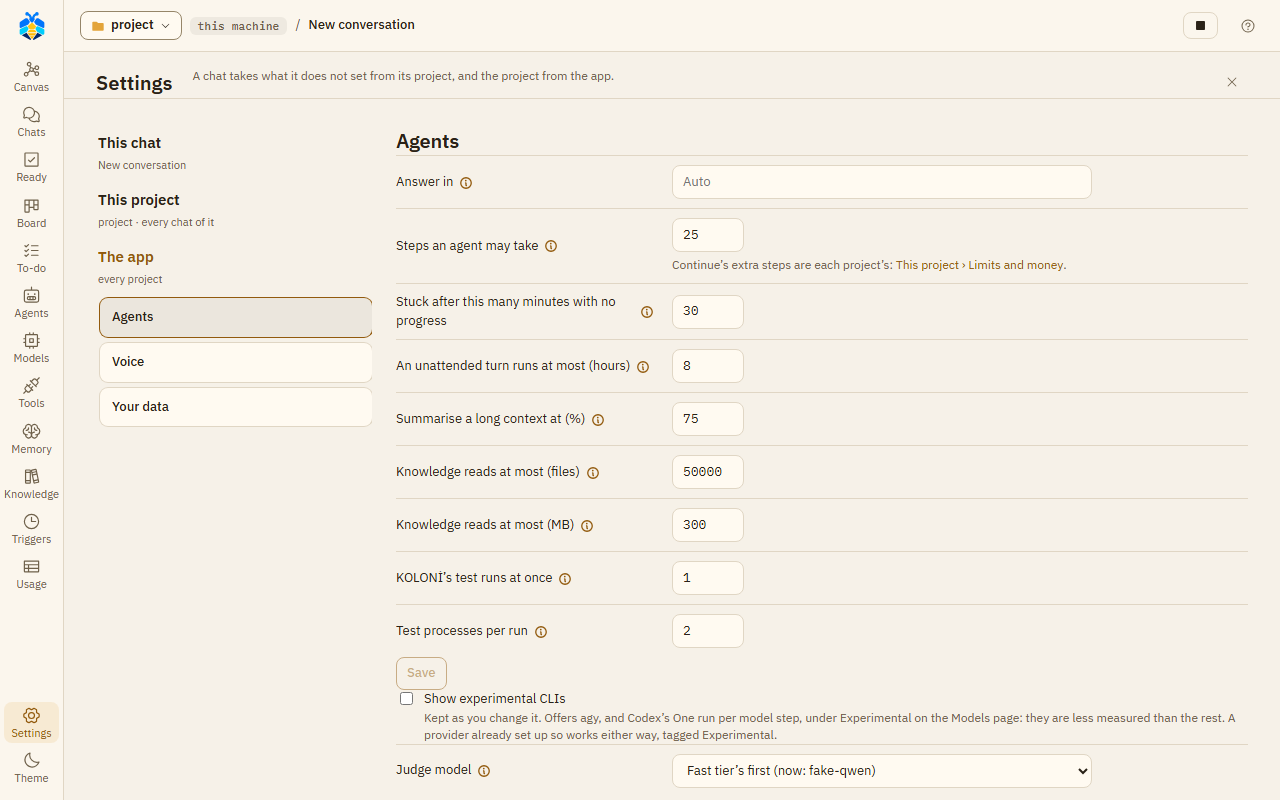
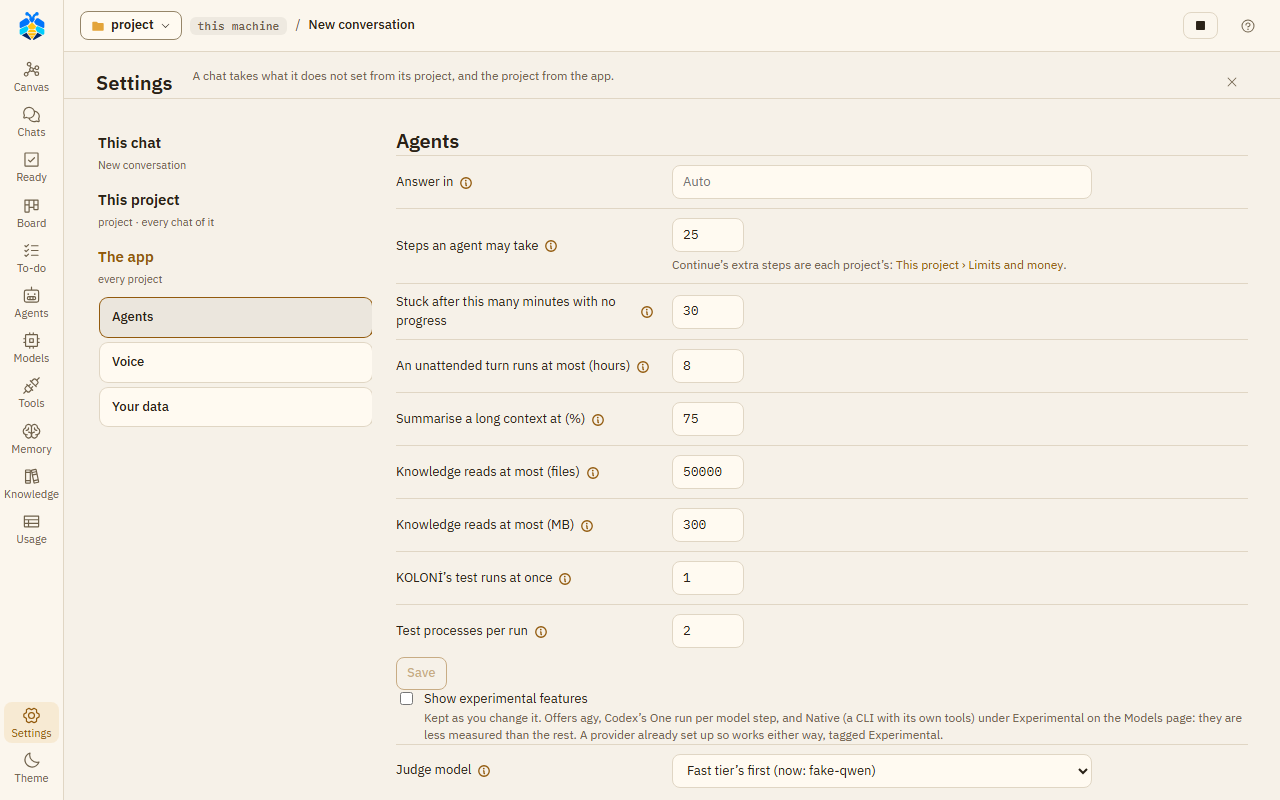
feat(models): a CLI run Native is experimental - offered with Show experimental features on
Native (a CLI with its own tools, in its own loop) is offered in How it runs only under
Experimental, with Settings › The app › Agents' switch on - renamed from Show experimental
CLIs to Show experimental features, the same stored flag (experimental_clis), so no
migration. A provider already run Native keeps working and its card is tagged Experimental.
Docs, the settings picture and the e2e specs that pick Native follow.

Changed region(s): [[0.3438, 0.875, 0.9688, 0.9375], [0.0, 0.625, 0.0312, 0.75]]

diff --git a/frontend/src/models/models.test.tsx b/frontend/src/models/models.test.tsx
@@ -437,40 +437,45 @@ test('a Qoder provider from before says why it stays off and can only be deleted
   expect(screen.queryByRole('option', { name: /Qoder/ })).not.toBeInTheDocument()
 })
 
-test('Codex runs the ways it safely can; one run per model step only under Experimental, or in use', async () => {
+test('Codex runs the ways it safely can; one run per model step and Native only under Experimental, or in use', async () => {
   const h = handlers()
   const codex = provider({ id: 'p5', name: 'Codex', kind: 'codex_cli', base_url: null, mode: null })
   render(<ModelsPage providers={[codex, provider({})]} {...h} />)
   await open('Codex', 'Connection')
   // A session since 7 Nov 2026 and its default since its live test, said plainly: its patch tool stays, and is refused.
-  expect(screen.getByLabelText('How it runs')).toHaveValue('session')
-  const session = screen.getByRole('option', { name: "One session per agent, with KOLONİ's tools (recommended)" })
-  expect(session).toHaveValue('session')
+  // Its only usual way: no choice to make (Native and one run per model step are experimental).
+  expect(screen.queryByLabelText('How it runs')).not.toBeInTheDocument()
   expect(screen.getByText(/KOLONİ refuses every patch it asks to make/)).toBeInTheDocument()
-  expect(screen.queryByRole('option', { name: /One run per model step/ })).not.toBeInTheDocument()
   await close()
   showExperimental()
   await open('Codex', 'Connection')
+  expect(await screen.findByLabelText('How it runs')).toHaveValue('session')
+  const session = screen.getByRole('option', { name: "One session per agent, with KOLONİ's tools (recommended)" })
+  expect(session).toHaveValue('session')
   const step = await screen.findByRole('option', { name: /One run per model step/ })
   expect(step.closest('optgroup')).toHaveAttribute('label', 'Experimental')
+  expect(screen.getByRole('option', { name: /^Native/ }).closest('optgroup')).toHaveAttribute('label', 'Experimental')
   await userEvent.selectOptions(screen.getByLabelText('How it runs'), 'step')
   await userEvent.click(screen.getByRole('button', { name: 'Save' }))
   expect(h.onSave).toHaveBeenCalledWith('p5', expect.objectContaining({ mode: 'step' }))
 })
 
-test('agy and Codex run step by step, already set up, keep their card tagged Experimental', () => {
+test('agy, Codex run step by step and a CLI run Native, already set up, keep their card tagged Experimental', () => {
   const agy = provider({ id: 'p6', name: 'agy', kind: 'agy_cli', base_url: null, mode: 'reads' })
   const step = provider({ id: 'p7', name: 'Codex steps', kind: 'codex_cli', base_url: null, mode: 'step' })
   const codex = provider({ id: 'p8', name: 'Codex', kind: 'codex_cli', base_url: null, mode: 'session' })
-  render(<ModelsPage providers={[provider({}), agy, step, codex]} {...handlers()} />)
+  const native = provider({ id: 'p9', name: 'Claude native', kind: 'claude_cli', base_url: null, mode: 'native' })
+  render(<ModelsPage providers={[provider({}), agy, step, codex, native]} {...handlers()} />)
   const card = (name: RegExp) => screen.getByRole('button', { name })
   expect(card(/^agy/)).toHaveTextContent('Experimental')
   expect(card(/^Codex steps/)).toHaveTextContent('Experimental')
+  expect(card(/^Claude native/)).toHaveTextContent('Experimental')
   expect(card(/^Codex(?! steps)/)).not.toHaveTextContent('Experimental')
   expect(card(/^Local/)).not.toHaveTextContent('Experimental')
 })
 
 test('Codex can run natively, and the page says plainly how it is asked first', async () => {
+  showExperimental() // (Native is offered under Experimental since 0.1.10)
   const h = handlers()
   const codex = provider({ id: 'p5', name: 'Codex', kind: 'codex_cli', base_url: null, mode: 'step' })
   render(<ModelsPage providers={[codex, provider({})]} {...h} />)

diff --git a/frontend/src/models/experimental.test.ts b/frontend/src/models/experimental.test.ts
@@ -1,15 +1,17 @@
 import { expect, test } from 'vitest'
 import { isExperimental, kindsShown, modesShown } from './experimental'
 
-test('0.1.8: agy, and Codex run one step at a time, are experimental; nothing else is', () => {
+test('agy, Codex run one step at a time (0.1.8) and any CLI run Native (0.1.10) are experimental; nothing else is', () => {
   expect(isExperimental('agy_cli')).toBe(true)
   expect(isExperimental('codex_cli', 'step')).toBe(true)
   expect(isExperimental('codex_cli', 'session')).toBe(false)
   expect(isExperimental('claude_cli', 'step')).toBe(false)
-  expect(isExperimental('copilot_cli', 'native')).toBe(false)
+  expect(isExperimental('claude_cli', 'session')).toBe(false)
+  expect(isExperimental('copilot_cli', 'native')).toBe(true)
+  expect(isExperimental('claude_cli', 'native')).toBe(true)
 })
 
-test('an experimental kind or way is shown with experimental CLIs on, or where it is already chosen', () => {
+test('an experimental kind or way is shown with experimental features on, or where it is already chosen', () => {
   const kinds: ['claude_cli' | 'agy_cli', string][] = [
     ['claude_cli', 'Claude Code (CLI)'],
     ['agy_cli', 'agy (CLI)'],
@@ -18,10 +20,12 @@ test('an experimental kind or way is shown with experimental CLIs on, or where i
   expect(kindsShown(kinds, 'claude_cli', true)).toEqual([[kinds[0]], [kinds[1]]])
   expect(kindsShown(kinds, 'agy_cli', false)).toEqual([[kinds[0]], [kinds[1]]]) // (a saved agy)
   const codex = ['session', 'step', 'native'] as const
-  expect(modesShown('codex_cli', [...codex], 'session', false)).toEqual([['session', 'native'], []])
-  expect(modesShown('codex_cli', [...codex], 'session', true)).toEqual([['session', 'native'], ['step']])
-  expect(modesShown('codex_cli', [...codex], 'step', false)).toEqual([['session', 'native'], ['step']]) // (in use)
+  expect(modesShown('codex_cli', [...codex], 'session', false)).toEqual([['session'], []])
+  expect(modesShown('codex_cli', [...codex], 'session', true)).toEqual([['session'], ['step', 'native']])
+  expect(modesShown('codex_cli', [...codex], 'step', false)).toEqual([['session'], ['step']]) // (in use)
+  // A provider already run Native keeps its way, under Experimental (0.1.10).
+  expect(modesShown('claude_cli', [...codex], 'native', false)).toEqual([['session', 'step'], ['native']])
   // Claude Code's step is no experiment, and agy's ways are its own: its kind says it.
-  expect(modesShown('claude_cli', [...codex], null, false)).toEqual([[...codex], []])
+  expect(modesShown('claude_cli', [...codex], null, false)).toEqual([['session', 'step'], []])
   expect(modesShown('agy_cli', ['reads', 'native'], 'reads', false)).toEqual([['reads', 'native'], []])
 })

diff --git a/frontend/src/models/experimental.tsx b/frontend/src/models/experimental.tsx
@@ -3,18 +3,19 @@ import { api } from '../api/client'
 import type { ExperimentalClis } from '../api/types'
 import type { Mode, ProviderKind } from './ModelsPage'
 
-/** 0.1.8: what is offered only under Experimental - agy, and Codex run one step at a time. Still run where in use. */
+/** What is offered only under Experimental - agy, Codex run one step at a time (0.1.8), and a CLI run Native with its
+ *  own tools (0.1.10). Still run where in use. */
 export const isExperimental = (kind: ProviderKind, mode?: Mode | null) =>
-  kind === 'agy_cli' || (kind === 'codex_cli' && mode === 'step')
+  kind === 'agy_cli' || (kind === 'codex_cli' && mode === 'step') || mode === 'native'
 
-/** The kinds offered, apart: the usual ones and those under Experimental - shown with experimental CLIs on, or the
+/** The kinds offered, apart: the usual ones and those under Experimental - shown with experimental features on, or the
  *  kind already chosen (a saved provider's: never hidden). */
 export function kindsShown<T extends [ProviderKind, string]>(kinds: T[], kind: ProviderKind, show: boolean) {
   const usual = kinds.filter(([one]) => !isExperimental(one))
   return [usual, kinds.filter(([one]) => isExperimental(one) && (show || one === kind))] as const
 }
 
-/** A kind's ways to run, apart in the same way: an experimental one shown with experimental CLIs on, or where it is
+/** A kind's ways to run, apart in the same way: an experimental one shown with experimental features on, or where it is
  *  the way the provider runs now. (A kind under Experimental, agy, has its ways as usual ones: its kind says it.) */
 export function modesShown(kind: ProviderKind, modes: Mode[], runs: Mode | null, show: boolean) {
   const apart = (mode: Mode) => !isExperimental(kind) && isExperimental(kind, mode)
@@ -46,12 +47,12 @@ export function Choices<T extends string>({
 // Memory and web shows Let agy search too by it.
 const told = new Set<(show: boolean) => void>()
 
-/** Settings' Show experimental CLIs, as it was read or saved: whatever reads it now follows. */
+/** Settings' Show experimental features, as it was read or saved: whatever reads it now follows. */
 export function experimentalChanged(show: boolean) {
   told.forEach(listener => listener(show))
 }
 
-/** Whether experimental CLIs are shown; off until read, and where it could not be. */
+/** Whether experimental features are shown; off until read, and where it could not be. */
 export function useExperimentalClis(): boolean {
   const [show, setShow] = useState(false)
   useEffect(() => {

diff --git a/frontend/src/shell/Settings.tsx b/frontend/src/shell/Settings.tsx
@@ -488,7 +488,7 @@ function AppSettings({ toLimits }: { toLimits?: () => void }) {
 }
 
 /** Settings › The app › Agents, under its Save: whether the Models page offers what is experimental (0.1.8: agy, and
- *  Codex run one step at a time) - kept as it is changed. */
+ *  Codex run one step at a time; 0.1.10: a CLI run Native) - kept as it is changed. */
 function ExperimentalChoice() {
   const [show, setShow] = useState<boolean | undefined>(undefined)
   const [error, setError] = useState<string | null>(null)
@@ -518,11 +518,11 @@ function ExperimentalChoice() {
           onChange={e => void change(e.target.checked)}
         />
         <span>
-          Show experimental CLIs
+          Show experimental features
           <span className="choice-note">
-            Kept as you change it. Offers agy, and Codex’s One run per model step, under Experimental on the Models
-            page: they are less measured than the rest. A provider already set up so works either way, tagged
-            Experimental.
+            Kept as you change it. Offers agy, Codex’s One run per model step, and Native (a CLI with its own tools)
+            under Experimental on the Models page: they are less measured than the rest. A provider already set up so
+            works either way, tagged Experimental.
           </span>
         </span>
       </label>

diff --git a/frontend/e2e/guide-shots.spec.ts b/frontend/e2e/guide-shots.spec.ts
@@ -586,7 +586,7 @@ test.describe('proven finish (0.1.6)', () => {
     await expect(settings.getByLabel('Fix rounds')).toBeVisible()
     await picture(page, 'settings-checks')
     await page.getByRole('button', { name: 'Close settings' }).click()
-    // The app › Agents: KOLONİ's test runs at once, the test processes each may use, and Show experimental CLIs and the
+    // The app › Agents: KOLONİ's test runs at once, the test processes each may use, and Show experimental features and the
     // Judge model (0.1.9) under Save (read once shown) - the fake model the Fast tier's first, as on a machine set up.
     type Local = { id: string; models: { name: string }[] }
     const local: Local = (await (await page.request.get('/api/providers')).json()).find(
@@ -600,7 +600,7 @@ test.describe('proven finish (0.1.6)', () => {
     await models(tiered)
     try {
       const app = await appSettings(page, 'Agents')
-      const experimental = app.getByRole('checkbox', { name: /Show experimental CLIs/ })
+      const experimental = app.getByRole('checkbox', { name: /Show experimental features/ })
       await expect(experimental).toBeEnabled()
       const judge = app.getByLabel('Judge model')
       await expect(judge).toHaveValue('')

diff --git a/frontend/src/shell/Settings.test.tsx b/frontend/src/shell/Settings.test.tsx
@@ -150,14 +150,14 @@ test('Settings lists its levels in their order, This project › The app, each w
   expect(screen.getByRole('region', { name: 'Your data' })).toBeVisible()
 })
 
-test('Show experimental CLIs, ticked in The app › Agents, offers Let agy search too in This project at once', async () => {
+test('Show experimental features, ticked in The app › Agents, offers Let agy search too in This project at once', async () => {
   server()
   const put = vi.spyOn(api, 'put').mockImplementation(async (_path: string, body: unknown) => body as never)
   render(<Settings {...base} project={project} onSave={vi.fn()} />)
   await userEvent.click(levels().getByRole('button', { name: /^Memory and web/ }))
   expect(screen.queryByLabelText(/^Let agy search too/)).toBeNull()
   await userEvent.click(level('The app'))
-  const box = screen.getByRole('checkbox', { name: /^Show experimental CLIs/ })
+  const box = screen.getByRole('checkbox', { name: /^Show experimental features/ })
   await waitFor(() => expect(box).toBeEnabled())
   expect(box).not.toBeChecked()
   await userEvent.click(box)

diff --git a/frontend/e2e/89g-inside-cli.spec.ts b/frontend/e2e/89g-inside-cli.spec.ts
@@ -47,6 +47,8 @@ test.describe('a role run inside Claude Code', () => {
         await page.request.patch(`/api/conversations/${id}`, { data: { permission_mode: 'full_auto' }, headers: OWN })
       ).ok(),
     ).toBe(true)
+    // Native is offered only with experimental features shown (0.1.10): on for this spec, off after it.
+    await request.put('/api/experimental-clis', { data: { show: true }, headers: OWN })
     await page.getByRole('button', { name: 'Models', exact: true }).click()
     await page.getByRole('button', { name: /Add a provider/ }).click()
     await page.getByLabel('Name').fill('Claude Code')
@@ -65,6 +67,7 @@ test.describe('a role run inside Claude Code', () => {
 
   test.afterEach(async ({ request }) => {
     await cleanUp(request)
+    await request.put('/api/experimental-clis', { data: { show: false }, headers: OWN })
   })
 
   test('its option says what it costs, and its sub-agent says whose role it runs', async ({ page }) => {

diff --git a/frontend/e2e/89d-tell-at-work.spec.ts b/frontend/e2e/89d-tell-at-work.spec.ts
@@ -47,6 +47,8 @@ test.describe('telling Claude Code something while it works', () => {
       headers: OWN,
     })
     expect(patched.ok()).toBe(true)
+    // Native is offered only with experimental features shown (0.1.10): on for this spec, off after it.
+    await request.put('/api/experimental-clis', { data: { show: true }, headers: OWN })
     await page.getByRole('button', { name: 'Models', exact: true }).click()
     await page.getByRole('button', { name: /Add a provider/ }).click()
     await page.getByLabel('Name').fill('Claude Code')
@@ -60,6 +62,7 @@ test.describe('telling Claude Code something while it works', () => {
   test.afterEach(async ({ request }) => {
     writeFileSync(PLAN, kept)
     await removeClaudeCode(request)
+    await request.put('/api/experimental-clis', { data: { show: false }, headers: OWN })
   })
 
   test('Tell … under its window while it works; said sent; gone once its work is over', async ({ page }) => {

diff --git a/frontend/e2e/16-cli-own-sub-agent.spec.ts b/frontend/e2e/16-cli-own-sub-agent.spec.ts
@@ -25,6 +25,8 @@ test.describe('with Claude Code working natively as a provider', () => {
       headers: OWN,
     })
     expect(patched.ok()).toBe(true)
+    // Native is offered only with experimental features shown (0.1.10): on for this spec, off after it.
+    await request.put('/api/experimental-clis', { data: { show: true }, headers: OWN })
     await page.getByRole('button', { name: 'Models', exact: true }).click()
     await page.getByRole('button', { name: /Add a provider/ }).click()
     await page.getByLabel('Name').fill('Claude Code')
@@ -37,6 +39,7 @@ test.describe('with Claude Code working natively as a provider', () => {
 
   test.afterEach(async ({ request }) => {
     await removeClaudeCode(request)
+    await request.put('/api/experimental-clis', { data: { show: false }, headers: OWN })
   })
 
   test('a sub-agent of Claude Code’s own is a box inside its agent’s box, and a block in its window', async ({

diff --git a/frontend/src/models/options.test.tsx b/frontend/src/models/options.test.tsx
@@ -3,6 +3,7 @@ import type { ReactElement } from 'react'
 import userEvent from '@testing-library/user-event'
 import { expect, test, vi } from 'vitest'
 import type { Provider } from '../api/types'
+import { showExperimental } from '../test-fixtures'
 import { ModelsPage } from './ModelsPage'
 
 const base: Provider = {
@@ -161,6 +162,7 @@ test('your own Claude Code setup is saved when it is switched on or off, and lef
 })
 
 test('a new native Claude Code provider is added with your own setup only when it was ticked', async () => {
+  showExperimental() // (Native is offered under Experimental since 0.1.10)
   for (const ticked of [false, true]) {
     const h = handlers()
     const { unmount } = render(<ModelsPage providers={[base]} {...h} />)

diff --git a/frontend/src/models/ProviderEditor.tsx b/frontend/src/models/ProviderEditor.tsx
@@ -178,7 +178,7 @@ export function ProviderEditor({
   const start = startOf(provider)
   const [name, setName] = useState(start.name)
   const [kind, setKind] = useState<ProviderKind>(start.kind)
-  // 0.1.8: agy and Codex run one step at a time are offered only with experimental CLIs shown (or where in use).
+  // agy, Native and Codex run one step at a time are offered only with experimental features shown (or where in use).
   const experimental = useExperimentalClis()
   const [usualKinds, experimentalKinds] = kindsShown(KINDS, kind, experimental)
   const [address, setAddress] = useState(start.address)

diff --git a/frontend/src/api/generated.ts b/frontend/src/api/generated.ts
@@ -1486,8 +1486,8 @@ export interface paths {
         get: operations["experimental_clis_api_experimental_clis_get"];
         /**
          * Set Experimental Clis
-         * @description 0.1.8: Show experimental CLIs (Settings › The app › Agents) - the user's, from the app's
-         *     own page.
+         * @description Show experimental features (Settings › The app › Agents; 0.1.8's Show experimental CLIs)
+         *     - the user's, from the app's own page.
          */
         put: operations["set_experimental_clis_api_experimental_clis_put"];
         post?: never;
